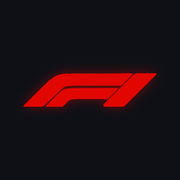
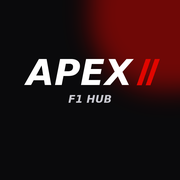
Add files via upload

diff --git a/app.js b/app.js
@@ -162,11 +162,11 @@ async function loadSession(key){
     timing={data:buildTiming(d),team:"",sort:"pos",mode:"gap",q:""};
     const teams=[...new Set(timing.data.rows.map(r=>r.team).filter(Boolean))];
     const w=d.weather;
-    target.innerHTML=`<section class="card pad"><div class="filters"><select id="tmTeam" class="select"><option value="">Все команды</option>${teams.map(t=>`<option>${esc(t)}</option>`).join("")}</select><select id="tmSort" class="select"><option value="pos">По позиции</option><option value="best">По лучшему кругу</option><option value="last">По последнему кругу</option></select></div><input id="tmQ" class="field" placeholder="Поиск пилота (код или имя)" style="margin-top:10px"></section>`
-      +`<div id="tmBody"></div><div id="tmStrategy"></div><div id="replay"></div><div id="telemetry"></div>`
+    target.innerHTML=`<div class="tabs" id="liveTabs"><button data-live="timing" class="active">Тайминг</button><button data-live="track">Трасса</button><button data-live="stats">Статистика</button></div><div data-sec="timing"><section class="card pad"><div class="filters"><select id="tmTeam" class="select"><option value="">Все команды</option>${teams.map(t=>`<option>${esc(t)}</option>`).join("")}</select><select id="tmSort" class="select"><option value="pos">По позиции</option><option value="best">По лучшему кругу</option><option value="last">По последнему кругу</option></select></div><input id="tmQ" class="field" placeholder="Поиск пилота (код или имя)" style="margin-top:10px"></section>`
+      +`<div id="tmBody"></div></div><div data-sec="track" hidden><div id="replay"></div></div><div data-sec="stats" hidden><div id="tmStrategy"></div><div id="telemetry"></div>`
       +(w?`<div class="grid2"><div class="stat"><strong>${w.air_temperature??"—"}°</strong><span>Температура воздуха</span></div><div class="stat"><strong>${w.track_temperature??"—"}°</strong><span>Температура трассы</span></div><div class="stat"><strong>${w.humidity??"—"}%</strong><span>Влажность</span></div><div class="stat"><strong>${w.rainfall?"Да":"Нет"}</strong><span>Дождь</span></div></div>`:"")
       +card("Race Control",d.raceControl.length?d.raceControl.map(x=>`<div class="session"><b>${esc(x.category||"Сообщение")} · ${esc(x.flag||"")}</b><span class="small">${esc(x.message||"")}</span></div>`).join(""):"<div class='pad muted'>Сообщения Race Control не найдены.</div>")
-      +`<p class="source">Это архивная сессия, а не прямой эфир: данные OpenF1 доступны после завершения сессии.${timing.data.partial?" Часть наборов данных не загрузилась, таблица может быть неполной.":""}</p>`;
+      +`</div><p class="source">Это архивная сессия, а не прямой эфир: данные OpenF1 доступны после завершения сессии.${timing.data.partial?" Часть наборов данных не загрузилась, таблица может быть неполной.":""}</p>`;
     drawTiming();
     setupReplay(d,key);
     setupTelemetry(d,key);
@@ -389,7 +389,7 @@ async function tryTelegramLogin(){
   try{setAuth(await authFetch("/api/auth/telegram",{method:"POST",body:{initData:Telegram.WebApp.initData}}));return true;}catch{return false;}
 }
 async function renderCommunity(){
-  const tabs=[["feed","Лента"],["predict","Прогнозы"],["chat","Чат"]].map(([k,l])=>`<button data-comm="${k}" class="${commTab===k?"active":""}">${l}</button>`).join("");
+  const tabs=[["feed","Для вас"],["following","Подписки"],["predict","Прогнозы"],["chat","Чат"]].map(([k,l])=>`<button data-comm="${k}" class="${commTab===k?"active":""}">${l}</button>`).join("");
   content.innerHTML=title("Сообщество","Лента, чат и профили болельщиков")+`<div class="tabs">${tabs}</div><div id="commBody"><div class="loading">Загружаем…</div></div>`;
   if(commTab!=="chat"&&chatES){chatES.close();chatES=null;}
   let st={enabled:false,ready:false};
@@ -397,6 +397,10 @@ async function renderCommunity(){
   if(st.enabled&&st.ready){await loadMe();if(!auth.user&&!tgTried){tgTried=true;await tryTelegramLogin();}}
   if(commTab==="chat")return renderChat();
   if(!st.enabled||!st.ready){host().innerHTML=`<section class="card pad"><b>Лента и профили пока недоступны</b><p class="small">Для них нужна база данных на сервере (${st.enabled?"она ещё подключается, попробуйте через минуту":"не подключена"}). Чат при этом работает.</p><button class="year" data-comm="chat">Открыть чат</button></section>`;return;}
+  if(commTab==="following"){
+    if(!auth.user){host().innerHTML=`<section class="card pad"><b>Войдите, чтобы видеть подписки</b><p class="small">Здесь будут публикации людей, на которых вы подписаны.</p><button class="year" data-comm="me">Войти / регистрация</button></section>`;return;}
+    feedScope="following";
+  }else if(commTab==="feed")feedScope="";
   if(commTab==="predict")return renderPredict();
   if(commTab==="user")return renderUserProfile();
   return renderFeed();
@@ -411,7 +415,7 @@ function drawFeed(){
   el.innerHTML=feedPosts.length?feedPosts.map(postHtml).join("")+(feedMore?`<button class="year more" data-act="more">Показать ещё</button>`:""):`<div class="empty">${feedScope==="following"?"В подписках пока нет публикаций. Откройте профиль автора и нажмите «Подписаться».":"Пока нет публикаций. Станьте первым!"}</div>`;
 }
 async function renderFeed(append){
-  if(!append){host().innerHTML=composerHtml()+`<div class="filters"><select id="feedScope" class="select"><option value="">Все публикации</option><option value="following"${feedScope==="following"?" selected":""}>Мои подписки</option></select><select id="feedTeam" class="select"><option value="">Все команды</option>${teamOptions(feedTeam)}</select></div><div id="feedList"><div class="loading">Загружаем ленту…</div></div>`;feedPosts=[];}
+  if(!append){host().innerHTML=composerHtml()+`<div class="filters"><select id="feedTeam" class="select"><option value="">Все команды</option>${teamOptions(feedTeam)}</select></div><div id="feedList"><div class="loading">Загружаем ленту…</div></div>`;feedPosts=[];}
   try{
     const last=append&&feedPosts.length?feedPosts[feedPosts.length-1].id:"";
     const d=await authFetch(`/api/posts?${feedTeam?`team=${feedTeam}&`:""}${feedScope?`scope=${feedScope}&`:""}${last?`before=${last}`:""}`);
@@ -487,6 +491,8 @@ content.addEventListener("input",e=>{if(e.target.id==="tmQ"){timing.q=e.target.v
 content.addEventListener("click",async e=>{
   if(e.target.closest("[data-tmmode]")){timing.mode=timing.mode==="gap"?"int":"gap";drawTiming();return;}
   const pr=e.target.closest("[data-predict]");if(pr){commTab="predict";goTab("community");return;}
+  const lv=e.target.closest("[data-live]");
+  if(lv){document.querySelectorAll("[data-live]").forEach(b=>b.classList.toggle("active",b===lv));document.querySelectorAll("[data-sec]").forEach(s=>{s.hidden=s.dataset.sec!==lv.dataset.live;});return;}
   const rp=e.target.closest("[data-rp]");if(rp){setLap(replay.lap+Number(rp.dataset.rp));return;}
   const tg=e.target.closest("[data-tab-go]");if(tg){goTab(tg.dataset.tabGo);return;}
   const g=e.target.closest("[data-go]");if(g){goTab(g.dataset.go);return;}
@@ -567,7 +573,7 @@ async function communityPreview(){
   return (await authFetch("/api/posts")).posts.slice(0,3);
 }
 async function renderHome(){
-  content.innerHTML=title("Главная","Следующая сессия, новости и лидеры")+`<div class="loading">Загружаем…</div>`;
+  content.innerHTML=title("Гоночная неделя","Следующая сессия, новости и лидеры")+`<div class="loading">Загружаем…</div>`;
   const [sch,news,stand,posts]=await Promise.allSettled([api("/api/schedule",3600000),api("/api/news",600000),api("/api/standings",1800000),communityPreview()]);
   let html="";
   const ev=sch.status==="fulfilled"&&sch.value.races?nextEvent(sch.value):null;
@@ -577,6 +583,14 @@ async function renderHome(){
     homeTimer=setInterval(()=>{const el=$("#cd");if(!el){clearInterval(homeTimer);return;}const q=cdParts(ev.time-Date.now());[...el.querySelectorAll("b")].forEach((b,i)=>{b.textContent=q[i];});},1000);
   }else if(sch.status==="fulfilled"){
     html+=`<section class="card pad"><b>Сезон завершён</b><p class="small">Следующих сессий в календаре нет.</p></section>`;
+  }
+  if(ev){
+    const r=ev.race, evs=(r.sessions||[]).filter(s=>s.dateStart).map(s=>({name:SESSION_RU[s.name]||s.name,t:Date.parse(s.dateStart)}));
+    if(!(r.sessions||[]).some(s=>s.name==="Race"))evs.push({name:"Гонка",t:Date.parse(r.date+"T"+(r.time||"00:00:00Z"))});
+    evs.sort((x,y)=>x.t-y.t);
+    const day=t=>new Date(t).toLocaleDateString("ru-RU",{weekday:"short"}).replace(".","").toUpperCase();
+    const hm=t=>new Date(t).toLocaleTimeString("ru-RU",{hour:"2-digit",minute:"2-digit"});
+    html+=card("Расписание уикенда",evs.map(x=>`<div class="sched-row${x.t===ev.time?" now":""}"><span class="sd">${day(x.t)}</span><i></i><b>${esc(x.name)}</b><time>${hm(x.t)}</time></div>`).join("")+`<div class="pad"><button class="year" data-go="schedule">Весь календарь</button></div>`);
   }
   html+=`<div class="tiles">${tile("schedule","Расписание")}${tile("tracks","Трассы")}${tile("news","Новости")}</div>`;
   if(news.status==="fulfilled"&&news.value.items.length){
@@ -588,7 +602,7 @@ async function renderHome(){
   if(posts.status==="fulfilled"&&posts.value&&posts.value.length){
     html+=card("Сообщество",posts.value.map(p=>`<div class="news-row"><div class="post-head">${uav(p.displayName,p.favTeam)}<div class="post-who"><b>${esc(p.displayName)}</b><span class="small">${ago(p.createdAt)} · ♥ ${p.likes}</span></div></div><div class="post-text">${esc(p.text.slice(0,140))}</div></div>`).join("")+`<div class="pad"><button class="year" data-tab-go="community">Открыть ленту</button></div>`);
   }
-  content.innerHTML=title("Главная","Следующая сессия, новости и лидеры")+html;
+  content.innerHTML=title("Гоночная неделя","Следующая сессия, новости и лидеры")+html;
 }
 function doAction(what){
   if(what==="team")return openTeams();
@@ -654,7 +668,7 @@ let teamId=(()=>{try{return localStorage.getItem("f1team")||"";}catch{return "";
 function applyTeam(){
   const root=document.documentElement, light=root.classList.contains("light"), t=TEAMS.find(x=>x.id===teamId);
   const keys=["--red","--yellow","--glow1","--glow2","--soft","--on","--bg"];
-  let bg=light?"#f5f4f1":"#15151e";
+  let bg=light?"#f5f4f1":"#090909";
   if(!t){keys.forEach(k=>root.style.removeProperty(k));}
   else{
     let a=t.a;
@@ -683,7 +697,7 @@ function openTeams(){
 }
 $("#team").onclick=openTeams;
 $("#theme").onclick=()=>{const l=document.documentElement.classList.toggle("light");try{localStorage.setItem("f1theme",l?"light":"dark");}catch{}applyTeam();};
-if(window.Telegram?.WebApp){Telegram.WebApp.ready();Telegram.WebApp.expand();try{Telegram.WebApp.setHeaderColor("#15151e");Telegram.WebApp.setBackgroundColor("#15151e");}catch{}}
+if(window.Telegram?.WebApp){Telegram.WebApp.ready();Telegram.WebApp.expand();try{Telegram.WebApp.setHeaderColor("#090909");Telegram.WebApp.setBackgroundColor("#090909");}catch{}}
 // ---------- Install as an app (PWA) ----------
 if("serviceWorker" in navigator) navigator.serviceWorker.register("/sw.js").catch(()=>{});
 let installEvent=null;

diff --git a/index.html b/index.html
@@ -3,30 +3,30 @@
 <head>
   <meta charset="utf-8">
   <meta name="viewport" content="width=device-width, initial-scale=1, viewport-fit=cover">
-  <meta name="theme-color" content="#f5f4f1">
-  <title>F1 Dashboard</title>
+  <meta name="theme-color" content="#090909">
+  <title>APEX · F1 HUB</title>
   <link rel="preconnect" href="https://fonts.googleapis.com">
-  <link href="https://fonts.googleapis.com/css2?family=Titillium+Web:wght@400;600;700;900&family=Unbounded:wght@700;900&display=swap" rel="stylesheet">
-  <script>try{if(localStorage.getItem("f1theme")!=="dark")document.documentElement.classList.add("light")}catch(e){document.documentElement.classList.add("light")}</script>
+  <link href="https://fonts.googleapis.com/css2?family=Titillium+Web:wght@400;600;700;900&family=Unbounded:wght@700;900&family=Exo+2:ital,wght@1,800;1,900&family=Barlow+Condensed:ital,wght@1,700;1,800&display=swap" rel="stylesheet">
+  <script>try{if(localStorage.getItem("f1theme")==="light")document.documentElement.classList.add("light")}catch(e){}</script>
   <link rel="manifest" href="/manifest.webmanifest">
   <link rel="apple-touch-icon" href="/apple-touch-icon.png">
   <meta name="mobile-web-app-capable" content="yes">
   <meta name="apple-mobile-web-app-capable" content="yes">
-  <meta name="apple-mobile-web-app-title" content="F1 2026">
+  <meta name="apple-mobile-web-app-title" content="APEX">
   <meta name="apple-mobile-web-app-status-bar-style" content="black">
   <link rel="stylesheet" href="/styles.css">
   <script src="https://telegram.org/js/telegram-web-app.js"></script>
 </head>
 <body>
   <main id="app">
-    <header class="top"><div class="brand"><img class="logo" src="/logo-f1.png" alt="F1"><span class="eyebrow">Сезон 2026</span></div><div class="actions"><button id="install" class="ghost" hidden aria-label="Установить приложение">⬇</button><button id="team" class="ghost" aria-label="Выбрать команду">🏁</button><button id="theme" class="ghost" aria-label="Переключить тему">◐</button></div></header>
+    <header class="top"><div class="brand"><svg class="apex" viewBox="0 0 200 40" role="img" aria-label="APEX F1 HUB"><text x="0" y="29" font-family="Exo 2, Titillium Web, sans-serif" font-style="italic" font-weight="900" font-size="34" fill="currentColor" letter-spacing="-1">APEX</text><polygon points="112,6 122,6 108,34 98,34" fill="#e10600" transform="translate(30 0)"/><polygon points="126,6 130,6 116,34 112,34" fill="#e10600" transform="translate(30 0)"/><text x="148" y="34" font-family="Exo 2, sans-serif" font-style="italic" font-weight="800" font-size="9" fill="currentColor" fill-opacity=".7" letter-spacing="2.5">F1 HUB</text></svg></div><div class="actions"><button id="install" class="ghost" hidden aria-label="Установить приложение">⬇</button><button id="team" class="ghost" aria-label="Выбрать команду">🏁</button><button id="theme" class="ghost" aria-label="Переключить тему">◐</button></div></header>
     <div id="content"><div class="loading">Загружаем паддок…</div></div>
   </main>
   <nav class="nav" aria-label="Главная навигация">
     <button data-tab="home" class="active"><svg viewBox="0 0 24 24" aria-hidden="true"><path d="M4 11l8-7 8 7v8a1.5 1.5 0 0 1-1.5 1.5H15v-6H9v6H5.5A1.5 1.5 0 0 1 4 19v-8z"/></svg>Главная</button>
-    <button data-tab="community"><svg viewBox="0 0 24 24" aria-hidden="true"><path d="M4 6.5A2.5 2.5 0 0 1 6.5 4h11A2.5 2.5 0 0 1 20 6.5v7a2.5 2.5 0 0 1-2.5 2.5H10l-4 4v-4h-.5A1.5 1.5 0 0 1 4 14.5v-8z"/></svg>Сообщество</button>
     <button data-tab="live"><svg viewBox="0 0 24 24" aria-hidden="true"><path d="M6 21V4M6 4h12l-2.5 4 2.5 4H6"/></svg>Live</button>
-    <button data-tab="standings"><svg viewBox="0 0 24 24" aria-hidden="true"><path d="M8 4h8v5a4 4 0 0 1-8 0V4zM8 6H5a3 3 0 0 0 3 4M16 6h3a3 3 0 0 1-3 4M12 13v4M8.5 20h7M10 17h4"/></svg>Зачёт</button>
+    <button data-tab="community"><svg viewBox="0 0 24 24" aria-hidden="true"><path d="M4 6.5A2.5 2.5 0 0 1 6.5 4h11A2.5 2.5 0 0 1 20 6.5v7a2.5 2.5 0 0 1-2.5 2.5H10l-4 4v-4h-.5A1.5 1.5 0 0 1 4 14.5v-8z"/></svg>Паддок</button>
+    <button data-tab="standings"><svg viewBox="0 0 24 24" aria-hidden="true"><path d="M5 20V11M12 20V4M19 20v-6"/></svg>Аналитика</button>
     <button data-tab="profile"><svg viewBox="0 0 24 24" aria-hidden="true"><circle cx="12" cy="8" r="3.8"/><path d="M4.5 20c.8-4 4-6 7.5-6s6.7 2 7.5 6"/></svg>Профиль</button>
   </nav>
   <script src="/app.js"></script>

diff --git a/styles.css b/styles.css
@@ -161,3 +161,35 @@ h2{font-size:17px;font-weight:900;text-transform:uppercase;letter-spacing:-.02em
 .rp-order{display:flex;flex-wrap:wrap;gap:6px;margin-top:10px}
 .rp-chip{display:inline-flex;gap:6px;align-items:center;padding:4px 10px;border-radius:999px;border:2px solid var(--tc);font:700 13px "Titillium Web",sans-serif}.rp-chip b{opacity:.6}
 .tel-h{font:700 15px "Titillium Web",sans-serif;text-transform:uppercase;letter-spacing:.04em;margin:16px 0 2px}.chart.tel{height:auto}.tel-table{margin-top:14px}
+
+/* ===== APEX dark theme (default; ◐ switches to the light F1-app style) ===== */
+.wordmark{font:900 26px Unbounded,"Titillium Web",sans-serif;font-style:italic;letter-spacing:-.05em;color:var(--ink);line-height:1}
+.wordmark i{color:var(--red);font-style:italic;letter-spacing:-.12em;margin-left:3px}
+:root:not(.light){--bg:#090909;--card:#131316;--ink:#f4f4f6;--muted:#8d8d98;--edge:#2a2a30;--line:#222228;--red:#e10600;--glow1:rgba(225,6,0,.24);--glow2:rgba(225,6,0,0);--soft:rgba(225,6,0,.16)}
+:root:not(.light) body{background:radial-gradient(70% 24% at 100% 0,var(--glow1),transparent 70%),repeating-linear-gradient(45deg,rgba(255,255,255,.018) 0 2px,transparent 2px 6px),var(--bg);background-attachment:fixed}
+:root:not(.light) h1{font-style:italic;font-weight:900;letter-spacing:-.04em;font-size:34px}
+:root:not(.light) h2{font-style:italic;letter-spacing:-.02em}
+:root:not(.light) .card{border:1px solid var(--edge);border-radius:14px}
+:root:not(.light) .tabs{border:0;gap:8px;overflow-x:auto;margin:14px 0}
+:root:not(.light) .tabs button{flex:0 0 auto;margin:0;padding:9px 16px;border:1px solid var(--edge);border-radius:8px;background:var(--card);color:var(--muted);font:700 13px "Titillium Web",sans-serif;text-transform:uppercase;letter-spacing:.07em}
+:root:not(.light) .tabs button.active{background:var(--red);border-color:var(--red);color:#fff}
+:root:not(.light) .select,:root:not(.light) .year{border:1px solid var(--edge);border-radius:8px;background:var(--card);color:var(--ink);font:700 13px "Titillium Web",sans-serif;text-transform:uppercase;letter-spacing:.05em;padding:10px 16px}
+:root:not(.light) .year[data-act="post"],:root:not(.light) .year[data-act="auth"],:root:not(.light) .year[data-act="predsave"],:root:not(.light) .year[data-act="telshow"],:root:not(.light) .year[data-act="saveProfile"],:root:not(.light) #chatSend{background:var(--red);border-color:var(--red);color:#fff}
+:root:not(.light) .pill{border-radius:4px;text-transform:uppercase;letter-spacing:.05em;font-size:11px}
+:root:not(.light) .nav{left:0;right:0;bottom:0;max-width:none;border-radius:0;border:0;border-top:1px solid var(--edge);background:rgba(9,9,9,.97);backdrop-filter:none;box-shadow:none;padding:6px 4px calc(6px + env(safe-area-inset-bottom))}
+:root:not(.light) .nav button.active{background:none;color:var(--red)}
+:root:not(.light) .nav button.active svg{fill:currentColor;fill-opacity:.18}
+:root:not(.light) .race.next{border:1px solid var(--red);background:radial-gradient(110% 80% at 100% 0,rgba(225,6,0,.4),transparent 60%),linear-gradient(160deg,#1b1b1f,#0a0a0b)}
+:root:not(.light) .cd div{background:#0c0c0e;border:1px solid var(--red);border-radius:8px}
+:root:not(.light) .cd b{font-style:italic}
+:root:not(.light) .date-pill{background:#0c0c0e;border:1px solid var(--edge);border-radius:6px}
+:root:not(.light) .tile{background:var(--card);border:1px solid var(--edge);border-radius:12px}
+:root:not(.light) .item.me{background:var(--soft)}
+:root:not(.light) #toast{background:var(--red)}
+
+/* home: weekend schedule */
+.sched-row{display:grid;grid-template-columns:44px 14px 1fr auto;align-items:center;gap:8px;padding:11px 18px;border-bottom:1px solid var(--line)}
+.sched-row .sd{font:700 13px "Titillium Web",sans-serif;color:var(--muted);letter-spacing:.06em}
+.sched-row i{width:8px;height:8px;border-radius:50%;background:var(--muted)}
+.sched-row b{font-size:17px}.sched-row time{font:700 17px "Titillium Web",sans-serif}
+.sched-row.now i{background:var(--red);box-shadow:0 0 0 4px var(--soft)}.sched-row.now b,.sched-row.now time{color:var(--red)}
